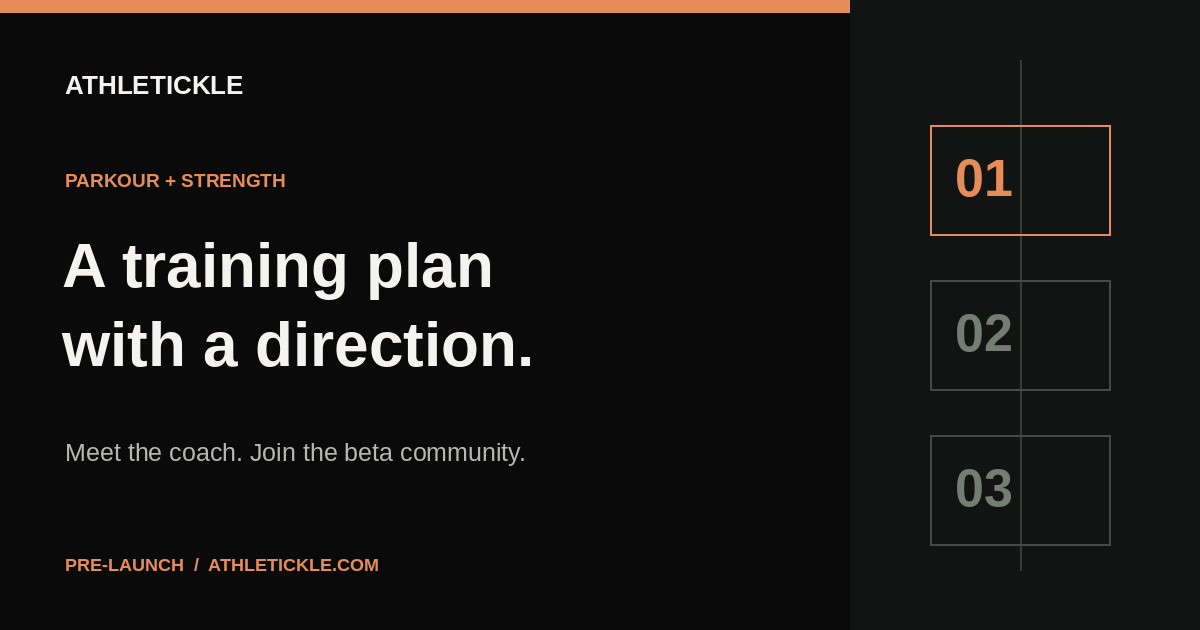
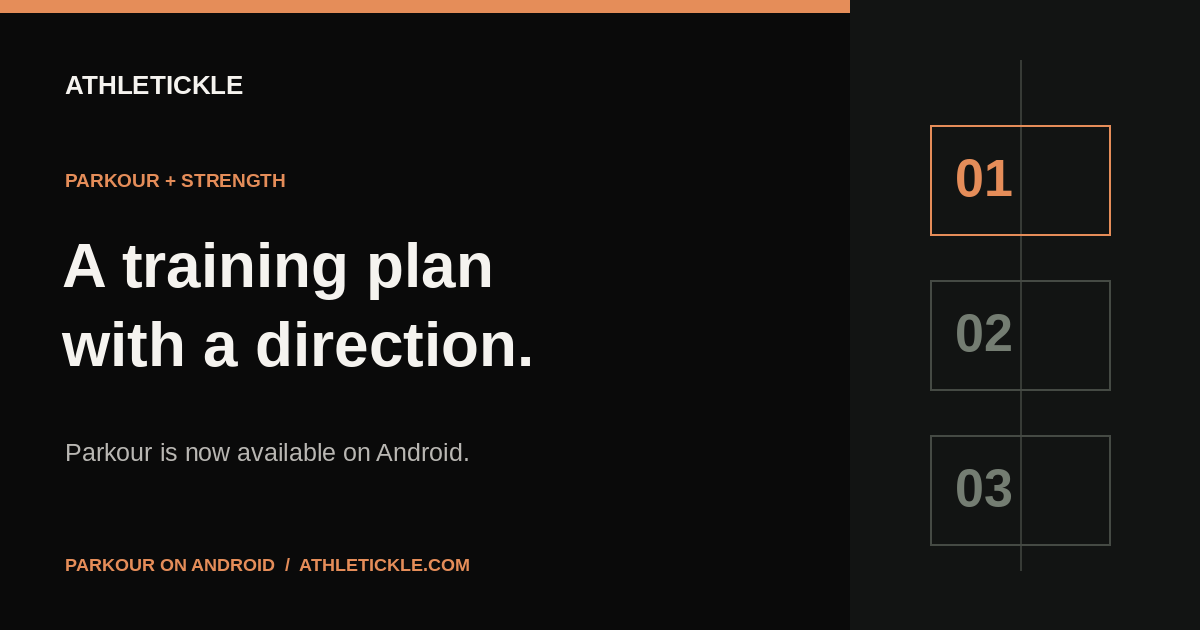
Update social previews for Parkour Android launch

Changed region(s): [[0.0617, 0.6937, 0.4317, 0.754], [0.0617, 0.8746, 0.4008, 0.9048]]

diff --git a/scripts/social-cards.py b/scripts/social-cards.py
@@ -8,7 +8,7 @@ REGULAR = FONT.with_name('LiberationSans-Regular.ttf')
 if not FONT.exists():
     raise SystemExit('Install Liberation Sans or update FONT to a local licensed font.')
 CARDS = {
-    'athletickle': ('PARKOUR + STRENGTH', ['A training plan', 'with a direction.'], 'Meet the coach. Join the beta community.'),
+    'athletickle': ('PARKOUR + STRENGTH', ['A training plan', 'with a direction.'], 'Parkour is now available on Android.'),
     'parkour': ('ATHLETICKLE PARKOUR', ['Strength and power.', 'Built around parkour.'], 'Complementary training. A structured roadmap.'),
     'strength': ('ATHLETICKLE STRENGTH', ['Give your strength', 'training a direction.'], 'Strength. Muscle mass. A two-day option.'),
     'about': ('MIKA / FOUNDER OF ATHLETICKLE', ['Coaching experience.', 'Made more accessible.'], 'MSc in Exercise Physiology. Parkour since 2005.'),
@@ -32,5 +32,6 @@ for name, (label, lines, subtitle) in CARDS.items():
             size -= 1
         draw.text((62, 230 + i * 79), line, font=ImageFont.truetype(str(FONT), size), fill='#f5f3ef')
     draw.text((65, 438), subtitle, font=ImageFont.truetype(str(REGULAR), 25), fill='#b9b7b3')
-    draw.text((65, 554), 'PRE-LAUNCH  /  ATHLETICKLE.COM', font=ImageFont.truetype(str(FONT), 18), fill=accent)
+    status = 'PARKOUR ON ANDROID' if name == 'athletickle' else 'NOW ON ANDROID' if name == 'parkour' else 'PRE-LAUNCH' if name == 'strength' else 'MEET THE FOUNDER'
+    draw.text((65, 554), f'{status}  /  ATHLETICKLE.COM', font=ImageFont.truetype(str(FONT), 18), fill=accent)
     image.save(ROOT / 'public' / 'social' / f'{name}.png', optimize=True)
